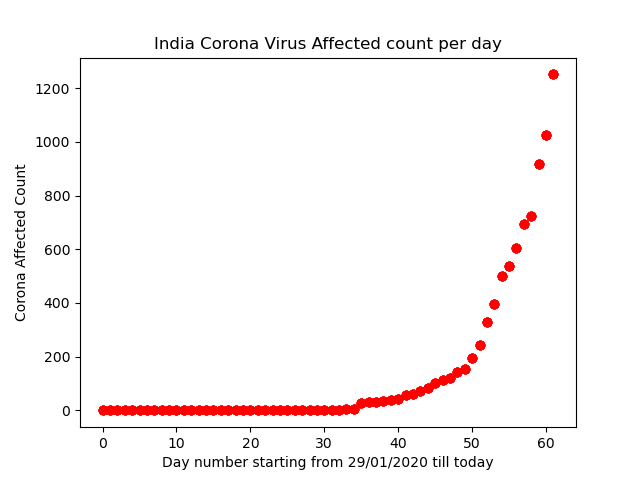
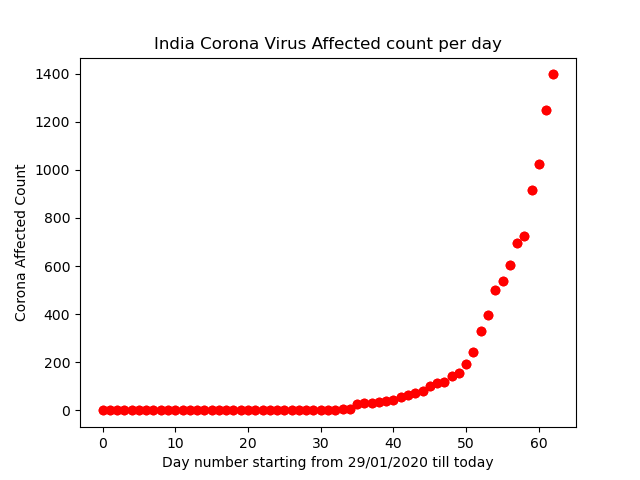
full

diff --git a/coronaIndia/scrap3.py b/coronaIndia/scrap3.py
@@ -21,11 +21,14 @@ def coronaData () :
     soup= BeautifulSoup(page.content,'html.parser')
     a= list(soup.children)
     startPoint = 0
+    endPoint = 0
     for i,e in enumerate(soup.find_all('tr')):#, class_= "table-responsive")):
         #print(e.get_text())
         try:
             if e.get_text().split('\n')[2] == 'Andhra Pradesh' :
                 startPoint = i
+            elif e.get_text().split('\n')[2] == 'West Bengal' :
+                endPoint = i    
                 break
         except:
             pass     
@@ -36,7 +39,7 @@ def coronaData () :
         #states.append(e.get_text().split('\n')[2])
         #print(e.get_text().split('\n')[4] + ':')
         #print(e.get_text().split('\n')[5])
-        if i>=startPoint and i<len(soup.find_all('tr'))-2:
+        if i>=startPoint and i<=endPoint:#len(soup.find_all('tr'))-2:
             print(e.get_text())
             states.append(e.get_text().split('\n')[2])
             if e.get_text().split('\n')[3] != '':
@@ -44,13 +47,14 @@ def coronaData () :
                 cc = int(e.get_text().split('\n')[3]) 
             else:
                 #print(e.get_text())
-                #print(i)
-                cc = int(e.get_text().split('\n')[4]) + int(e.get_text().split('\n')[5])
-            if e.get_text().split('\n')[5] !='':    
-                cuc = int(e.get_text().split('\n')[5])
+                print('error1')
+                #cc = int(e.get_text().split('\n')[4]) + int(e.get_text().split('\n')[5])
+            if e.get_text().split('\n')[4] !='':    
+                cuc = int(e.get_text().split('\n')[4])
             else:
-                cuc = int(e.get_text().split('\n')[6])
-            dc=int(e.get_text().split('\n')[6].replace('#',''))
+                #cuc = int(e.get_text().split('\n')[6])
+                print('error2')
+            dc=int(e.get_text().split('\n')[5].replace('#',''))
         else:
             cc=0   
             cuc=0 
@@ -58,8 +62,10 @@ def coronaData () :
         currentCount.append(cc)#e.get_text().split('\n')[3])
         curedCount.append(cuc)
         deathCount.append(dc)
-    icount = soup.find_all('span', class_= "icount")[1].get_text()        
-    dcount = soup.find_all('span', class_= "icount")[3].get_text().replace('#','')
+    #icount = soup.find_all('span', class_= "icount")[1].get_text()        
+    #dcount = soup.find_all('span', class_= "icount")[3].get_text().replace('#','')
+    icount = soup.find_all('strong')[5].get_text()        
+    dcount = soup.find_all('strong')[7].get_text().replace('#','')
     allTotal = int(icount) + int(dcount)  
     print(allTotal,icount)
     return states,currentCount,curedCount,icount,dcount,deathCount,allTotal,startPoint

diff --git a/coronaIndia/plotMe.py b/coronaIndia/plotMe.py
@@ -62,7 +62,7 @@ def plotMeDiffSpain():
 
 def plotMeLatest() :
     y = [0,1,1,1,2,3,3,3,3,3,3,3,3,3,3,3,3,3,3,3,3,3,3,3,3,3,3,3,3,3,3,3,3,5,5,28,30,31,34,39,43,56,62,73,
-    82,102,113,119,142,156,194,244,330,396,499,536,606,694,724,917,1024,1251]
+    82,102,113,119,142,156,194,244,330,396,499,536,606,694,724,917,1024,1251,1397]
     x = range(len(y))
     
     # x=['29/01/2020','30/01/2020','31/01/2020','01/02/2020','02/02/2020','03/02/2020','04/02/2020','05/02/2020','06/02/2020',
@@ -83,14 +83,14 @@ def plotMeLatest() :
 
 def plotMeInt():
     y = [0,1,1,1,2,3,3,3,3,3,3,3,3,3,3,3,3,3,3,3,3,3,3,3,3,3,3,3,3,3,3,3,3,5,5,28,30,31,34,39,43,56,62,73,
-    82,102,113,119,142,156,194,244,330,396,499,536,606,694,724,917,1024]
+    82,102,113,119,142,156,194,244,330,396,499,536,606,694,724,917,1024,1251,1397]
     x = list(range(len(y)))
     dates = ['29-01-20','30-01-20','31-01-20','01-02-20','02-02-20','03-02-20','04-02-20','05-02-20','06-02-20','07-02-20',
     '08-02-20','09-02-20','10-02-20','11-02-20','12-02-20','13-02-20','14-02-20','15-02-20','16-02-20','17-02-20','18-02-20',
     '19-02-20','20-02-20','21-02-20','22-02-20','23-02-20','24-02-20','25-02-20','26-02-20','27-02-20','28-02-20','29-02-20',
     '01-03-20','02-03-20','03-03-20','04-03-20','05-03-20','06-03-20','07-03-20','08-03-20','09-03-20','10-03-20','11-03-20',
     '12-03-20','13-03-20','14-03-20','15-03-20','16-03-20','17-03-20','18-03-20','19-03-20','20-03-20','21-03-20','22-03-20',
-    '23-03-20','24-03-20','25-03-20','26-03-20','27-03-20','28-03-20','29-03-20','30-03-20']
+    '23-03-20','24-03-20','25-03-20','26-03-20','27-03-20','28-03-20','29-03-20','30-03-20','31-03-20']
     fig = go.Figure(data=go.Scatter(x=x, y=y, mode='lines+markers', text=dates))
     fig.update_layout(
     title="India Corona Virus Affected count per day",
